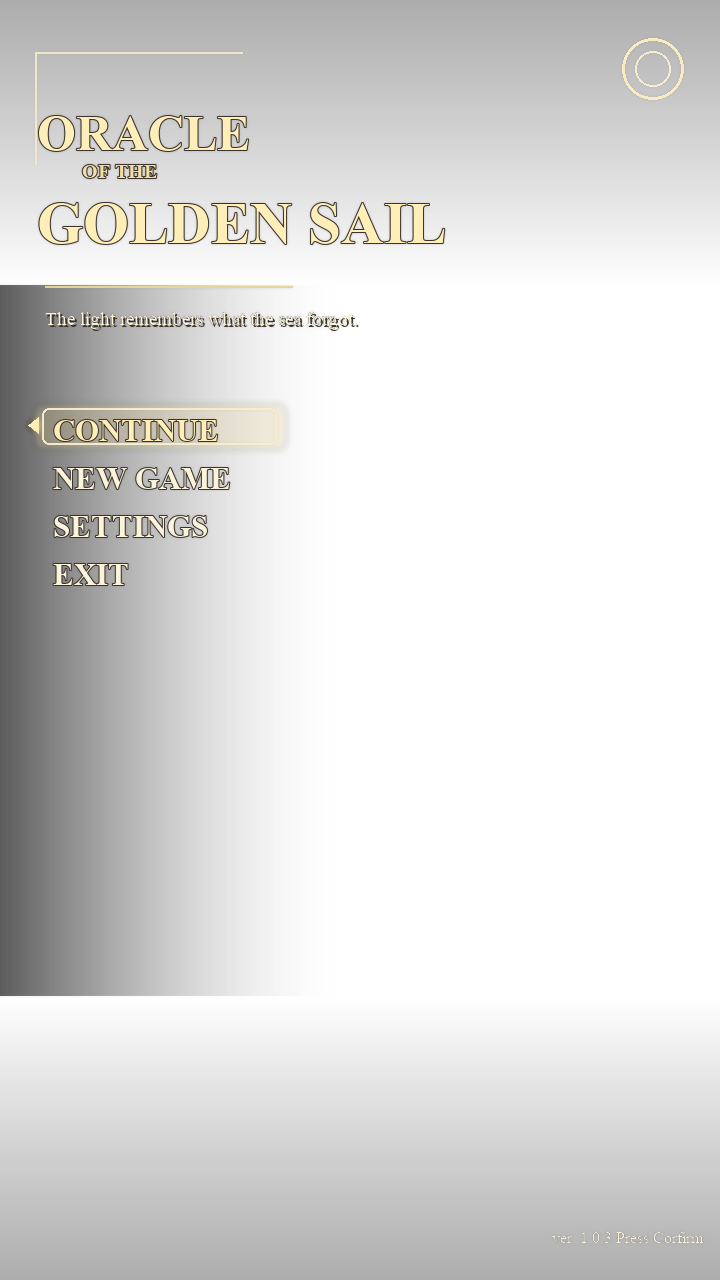
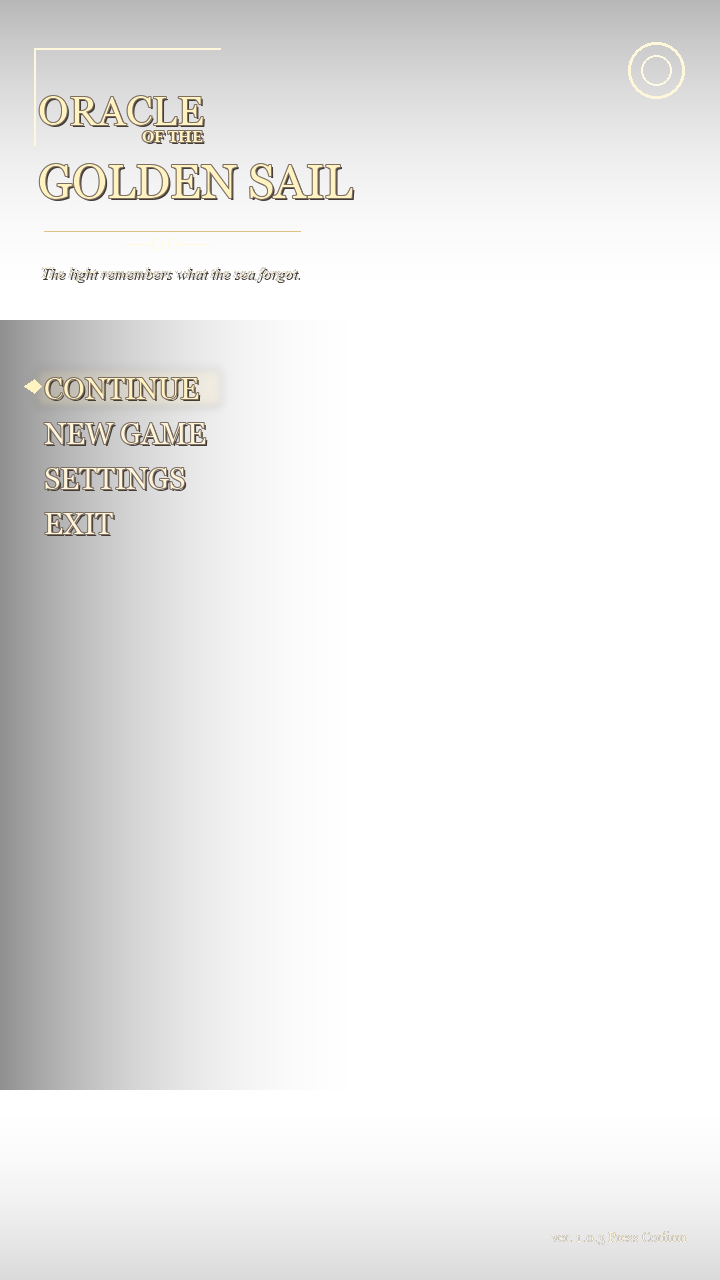
refine loading screen menu

diff --git a/.agents/skills/edit-game-loading-screen/references/recipe.md b/.agents/skills/edit-game-loading-screen/references/recipe.md
@@ -29,11 +29,14 @@ Use these visual parts after the drop:
 - dark cinematic grade
 - subtle vignette
 - `ORACLE OF THE GOLDEN SAIL` title/menu overlay based on `assets/loading-menu-reference.png`
+- reference-style gold serif typography placed in the upper-left safe area
+- transparent overlay treatment: text, ornament, selector, and a soft edge darkening only
+- no boxed HUD panel, heavy black slab, neon sci-fi UI, or generic loading bar
 - Continue, New Game, Settings, Exit menu options
 - animated selector/highlight that visits each menu option in order
 - brief click/flash accents as the selection changes
 
-Keep overlay text inside safe margins. It should feel like a cinematic game main menu, not a generic HUD.
+Keep overlay text inside safe margins. It should feel like the uploaded cinematic game main menu reference, not a generic HUD.
 
 ## QA
 

diff --git a/.agents/skills/edit-game-loading-screen/SKILL.md b/.agents/skills/edit-game-loading-screen/SKILL.md
@@ -17,6 +17,7 @@ Use this skill to turn a raw clip or portrait image into a vertical game-loading
 6. At the drop, switch to cinematic slow motion with:
    - darker grade and sharpening
    - the bundled fantasy game-menu overlay inspired by `assets/loading-menu-reference.png`
+   - gold serif menu text composited directly over footage, with soft shadow/vignette instead of an opaque HUD panel
    - the title/menu aesthetic from the uploaded loading-screen reference
    - an animated selector that moves through Continue, New Game, Settings, and Exit
    - click/flash accents as the selector changes
